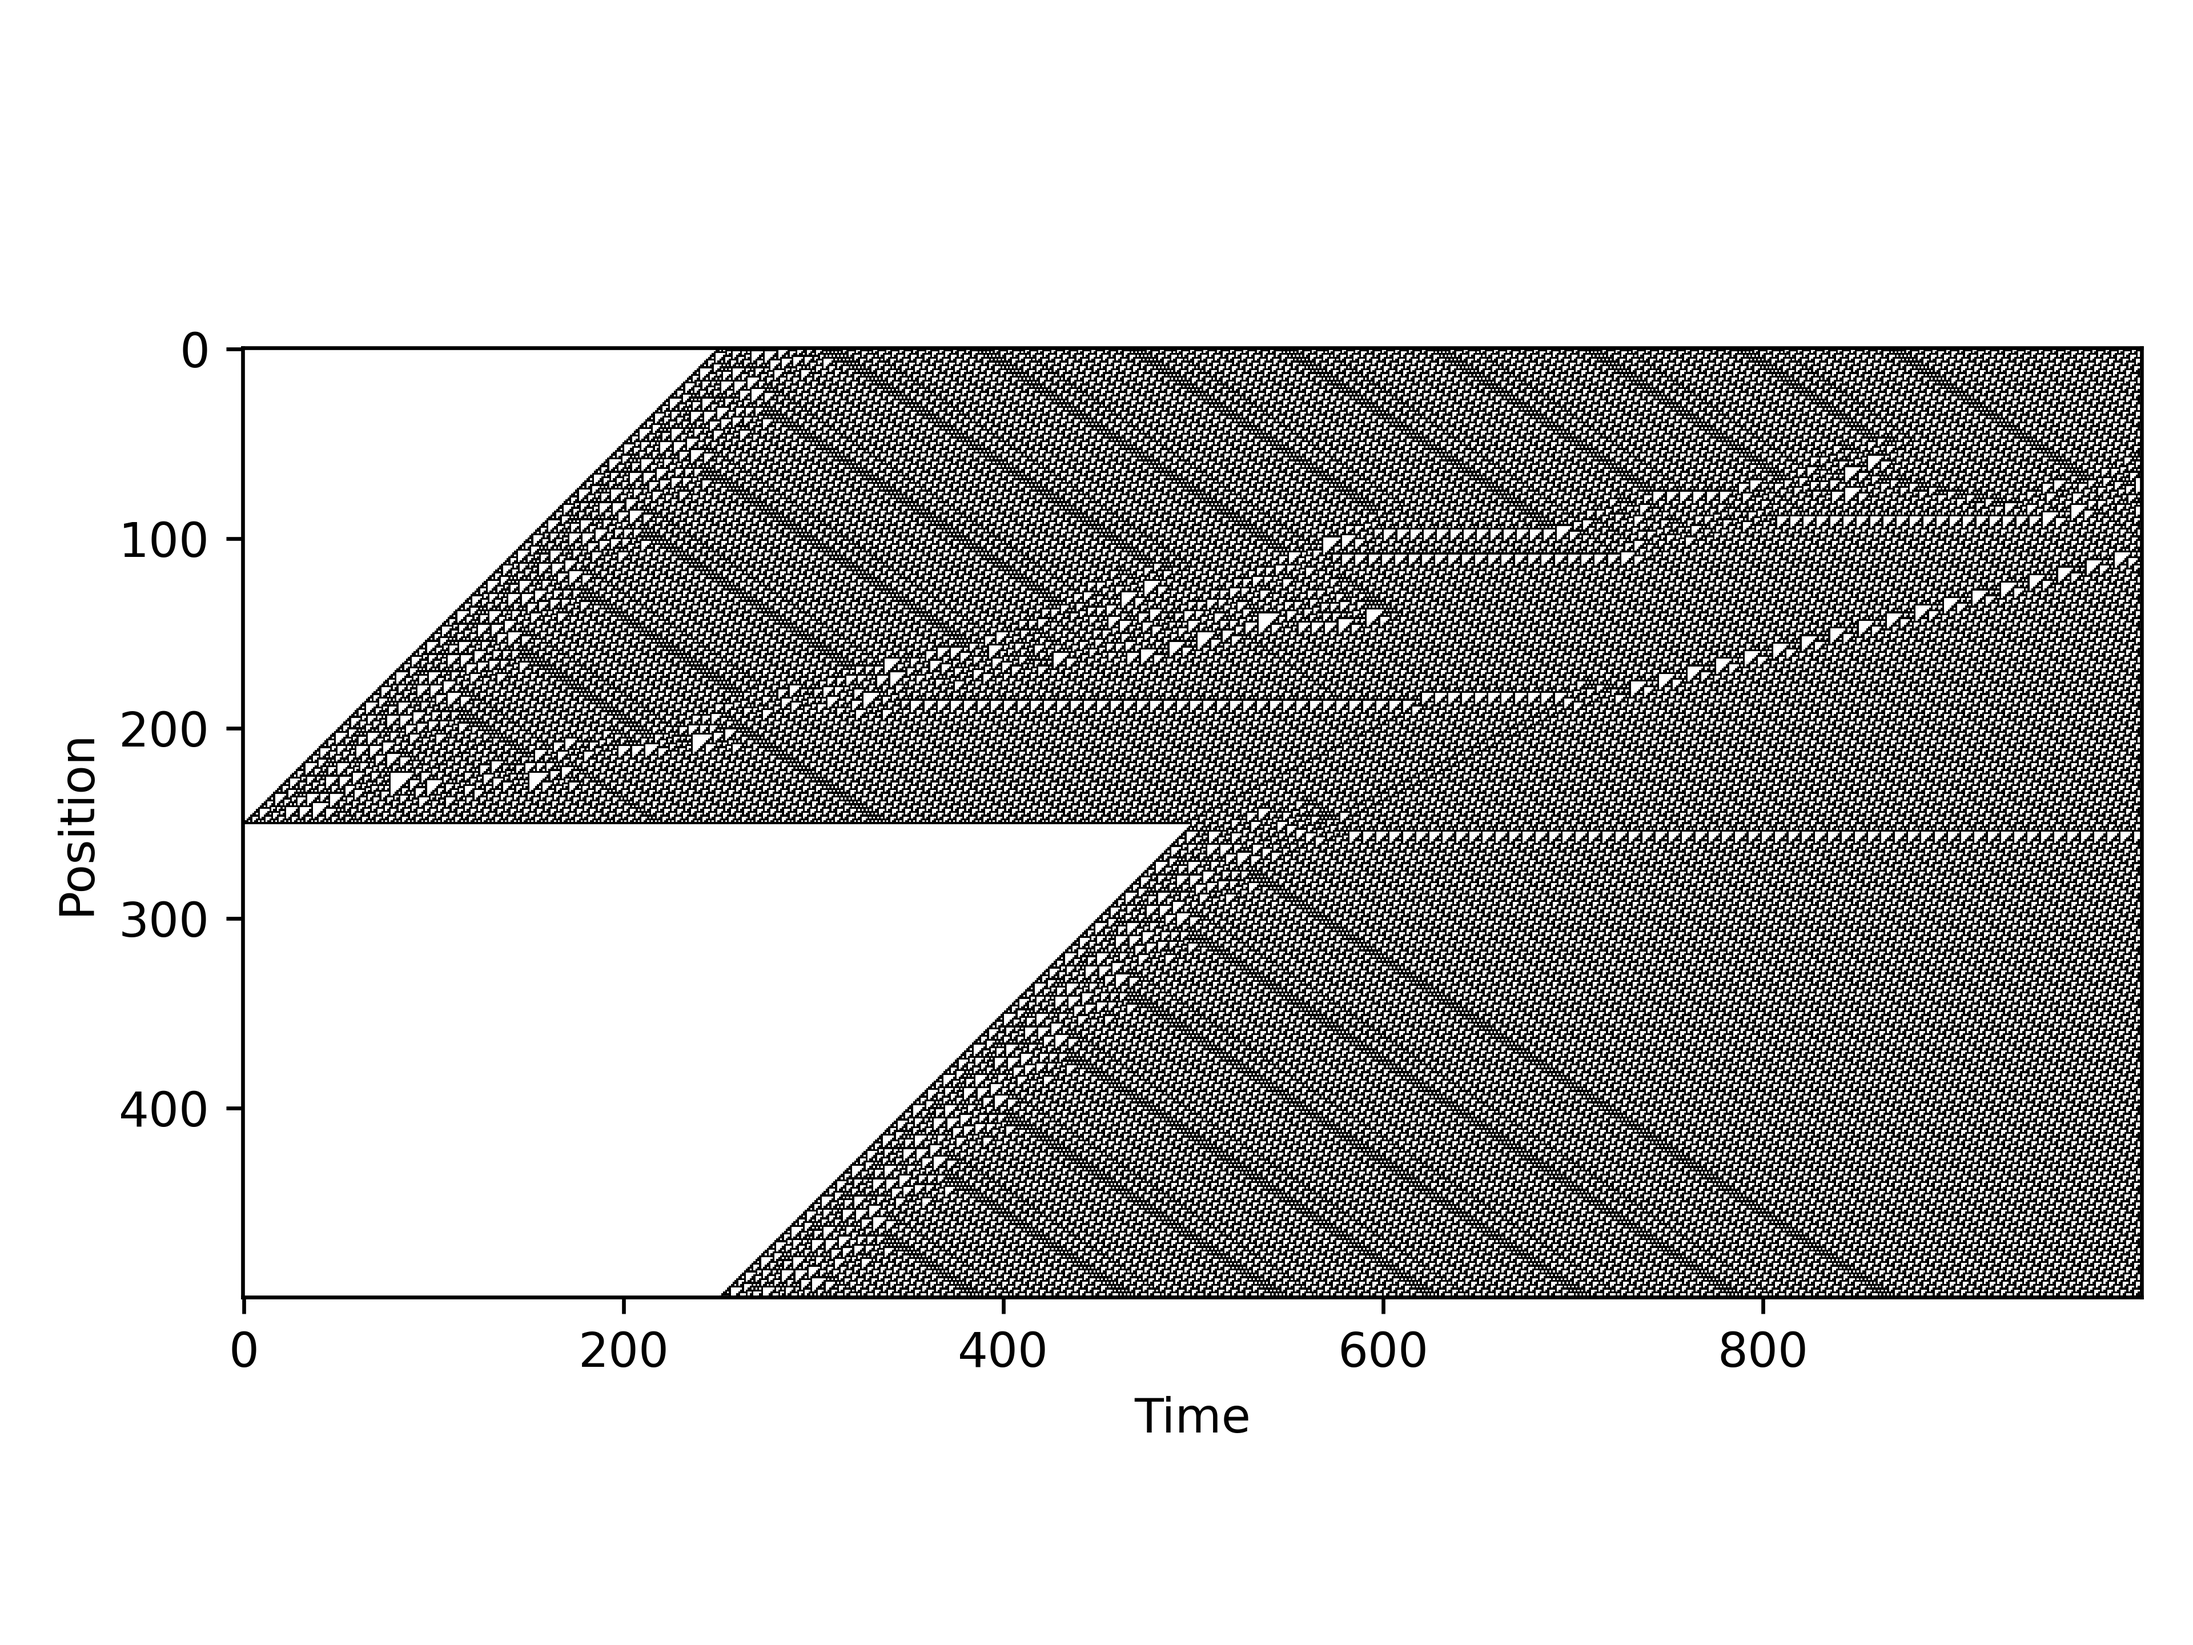
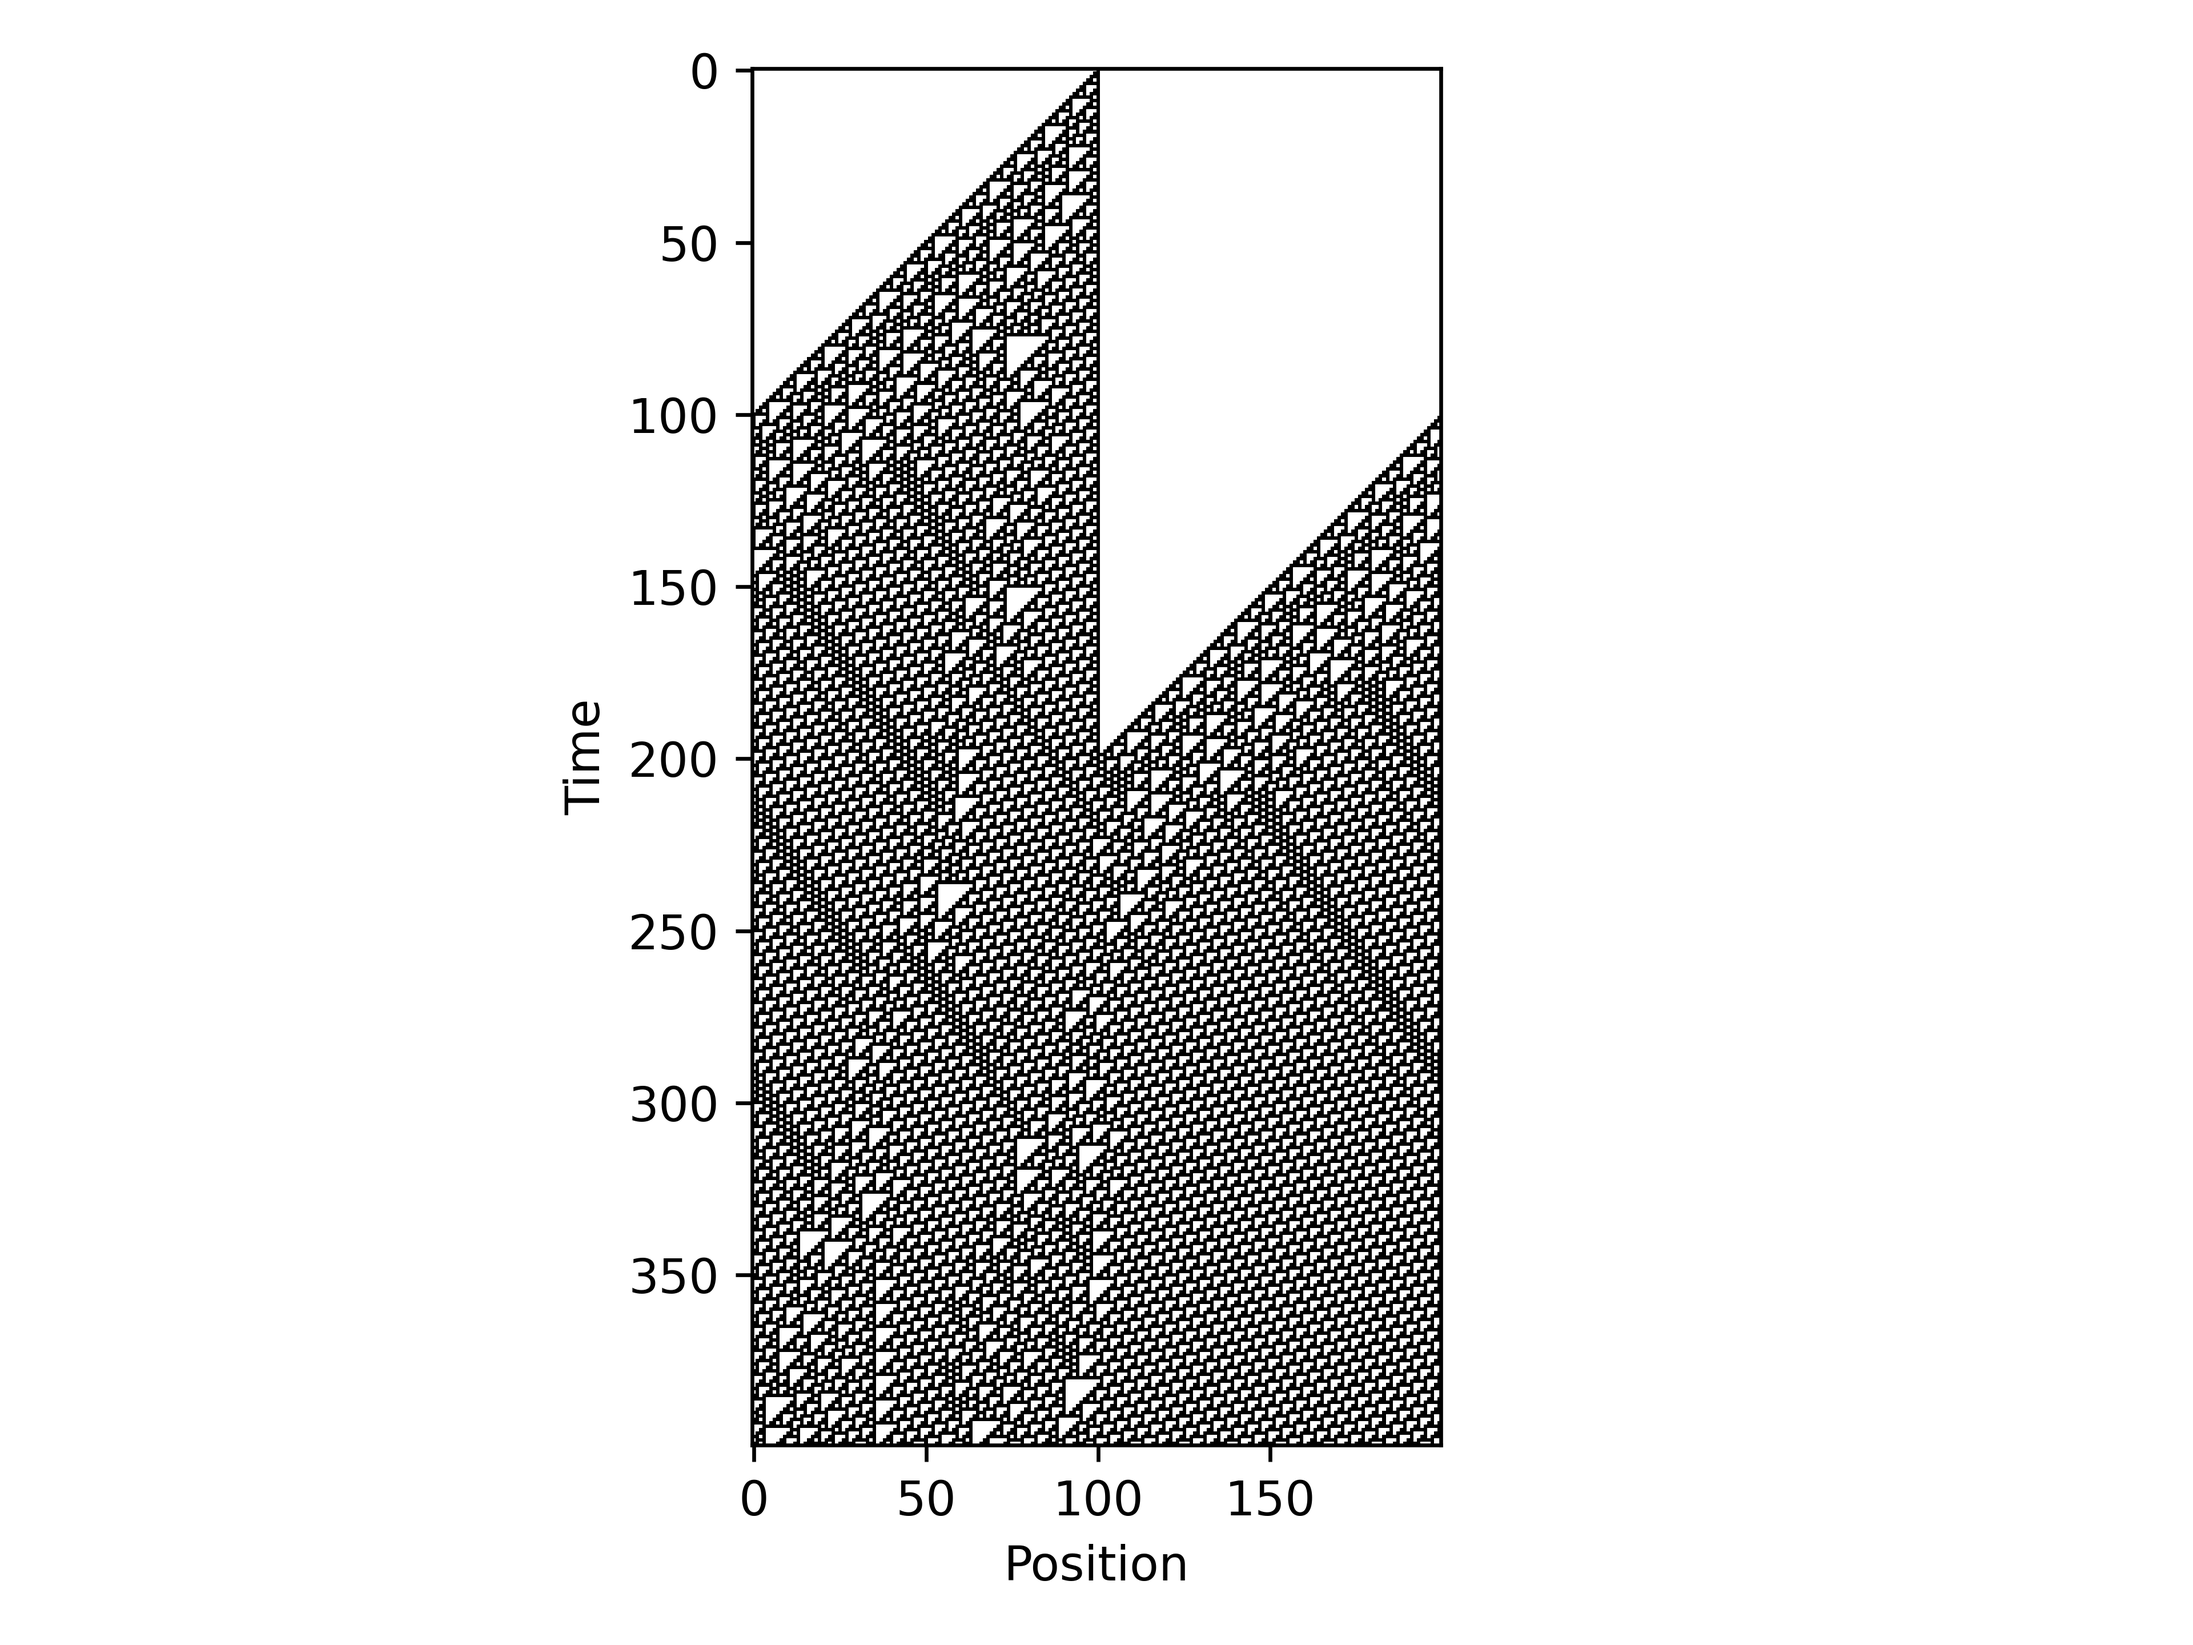
Added update_rule method in automaton object.

diff --git a/src/example_1d.py b/src/example_1d.py
@@ -5,19 +5,19 @@ from cellular_automaton import get_rule, rule_vanilla, Automaton
 
 # Define the system's  geometry.
 # Number of sites.
-N_SITES = 500
+N_SITES = 200
 # Initial condition. We provide the indices of the sites with value 1.
-INITIAL_COND = [250]
+INITIAL_COND = [100]
 # Nearest neighbors used to update current site.
 NEIGH = 1
 digits = 2**(2 * NEIGH + 1) - 1
-T_MAX = 1000
+T_MAX = 400
 RULE_NUM = 110
 l_rule = get_rule(RULE_NUM, digits)
 rule_fn = rule_vanilla
 rule_args = {"l_rule": l_rule, "digits": digits, "neigh": NEIGH}
-XLABEL = "Time"
-YLABEL = "Position"
+XLABEL = "Position"
+YLABEL = "Time"
 DPI = 600
 PICS_DIR = "../pics"
 PLOT_TYPE = "image"
@@ -32,6 +32,5 @@ plot_evolution = PlotTool(XLABEL, YLABEL, PICS_DIR, DPI)
 for time_ in l_times[1:]:
     automaton.update()
     data[time_] = automaton.get_configuration()
-data = np.transpose(np.array(data))
 plot_evolution.plot_figure(data, PLOT_TYPE, LABEL, FIGNAME)
 

diff --git a/src/cellular_automaton.py b/src/cellular_automaton.py
@@ -25,6 +25,11 @@ class Automaton:
 
         return self.current_config
 
+    def update_rule(self, rule_fn, rule_args):
+        """Update the rule governing the cellular automaton."""
+        self.rule_fn = rule_fn
+        self.rule_args = rule_args
+
     def update(self):
         """
         Update lattice configuration given the rule and current configuration.
